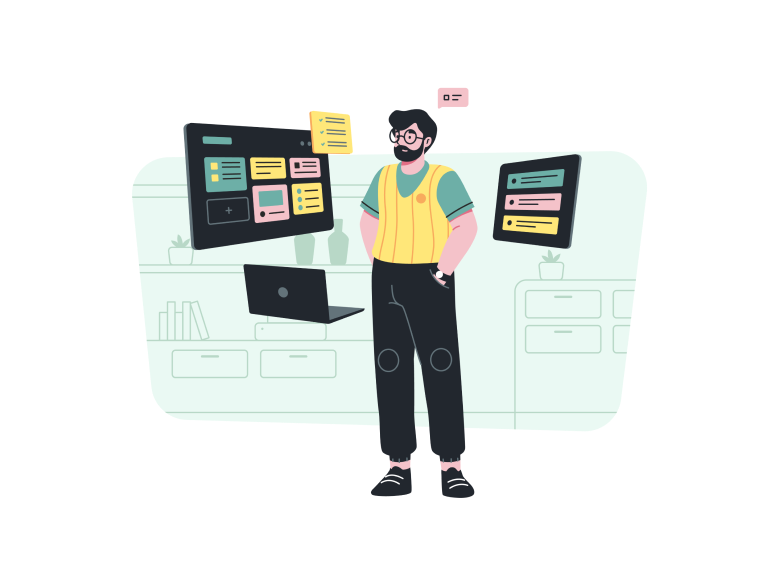
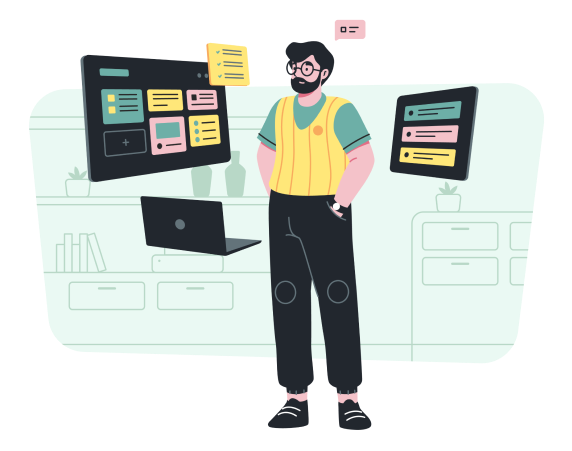
fixing img size

Changed region(s): [[0.0594, 0.031, 0.951, 0.9623], [0.8916, 0.6208, 0.9213, 0.6519]]

diff --git a/public/style/style.css b/public/style/style.css
@@ -331,10 +331,14 @@ header .header__cta {
   flex-direction: row;
   justify-content: space-between;
   align-items: center;
+  margin-top: 100px;
 }
 header .header__cta h2 {
   font-size: 65px;
   font-weight: 800;
+}
+header .header__cta .cta__img {
+  width: 90%;
 }
 
 nav {
@@ -440,6 +444,12 @@ footer .footer__bottom .footer__end .footer__menu .footer__list {
   gap: 15%;
   list-style: none;
   text-transform: uppercase;
+}
+footer .footer__bottom .footer__end .footer__menu .footer__list .footer__item {
+  transition: all 0.1s ease;
+}
+footer .footer__bottom .footer__end .footer__menu .footer__list .footer__item:hover {
+  color: #F9DE4E;
 }
 footer .footer__bottom .footer__end .footer__copyright {
   width: 20%;

diff --git a/public/style/components/_footer.scss b/public/style/components/_footer.scss
@@ -59,6 +59,12 @@ footer{
                     gap: 15%;
                     list-style: none;
                     text-transform: uppercase;
+                    .footer__item{
+                        transition: all 0.1s ease;
+                        &:hover{
+                            color: $colorYellow;
+                        }
+                    }
                 }
             }
             .footer__copyright{

diff --git a/public/style/components/_header.scss b/public/style/components/_header.scss
@@ -13,9 +13,13 @@ header{
         flex-direction: row;
         justify-content: space-between;
         align-items: center;
+        margin-top: 100px;
         h2{
             font-size: 65px;
             font-weight: 800;
+        }
+        .cta__img{
+            width: 90%;
         }
     }
 }
